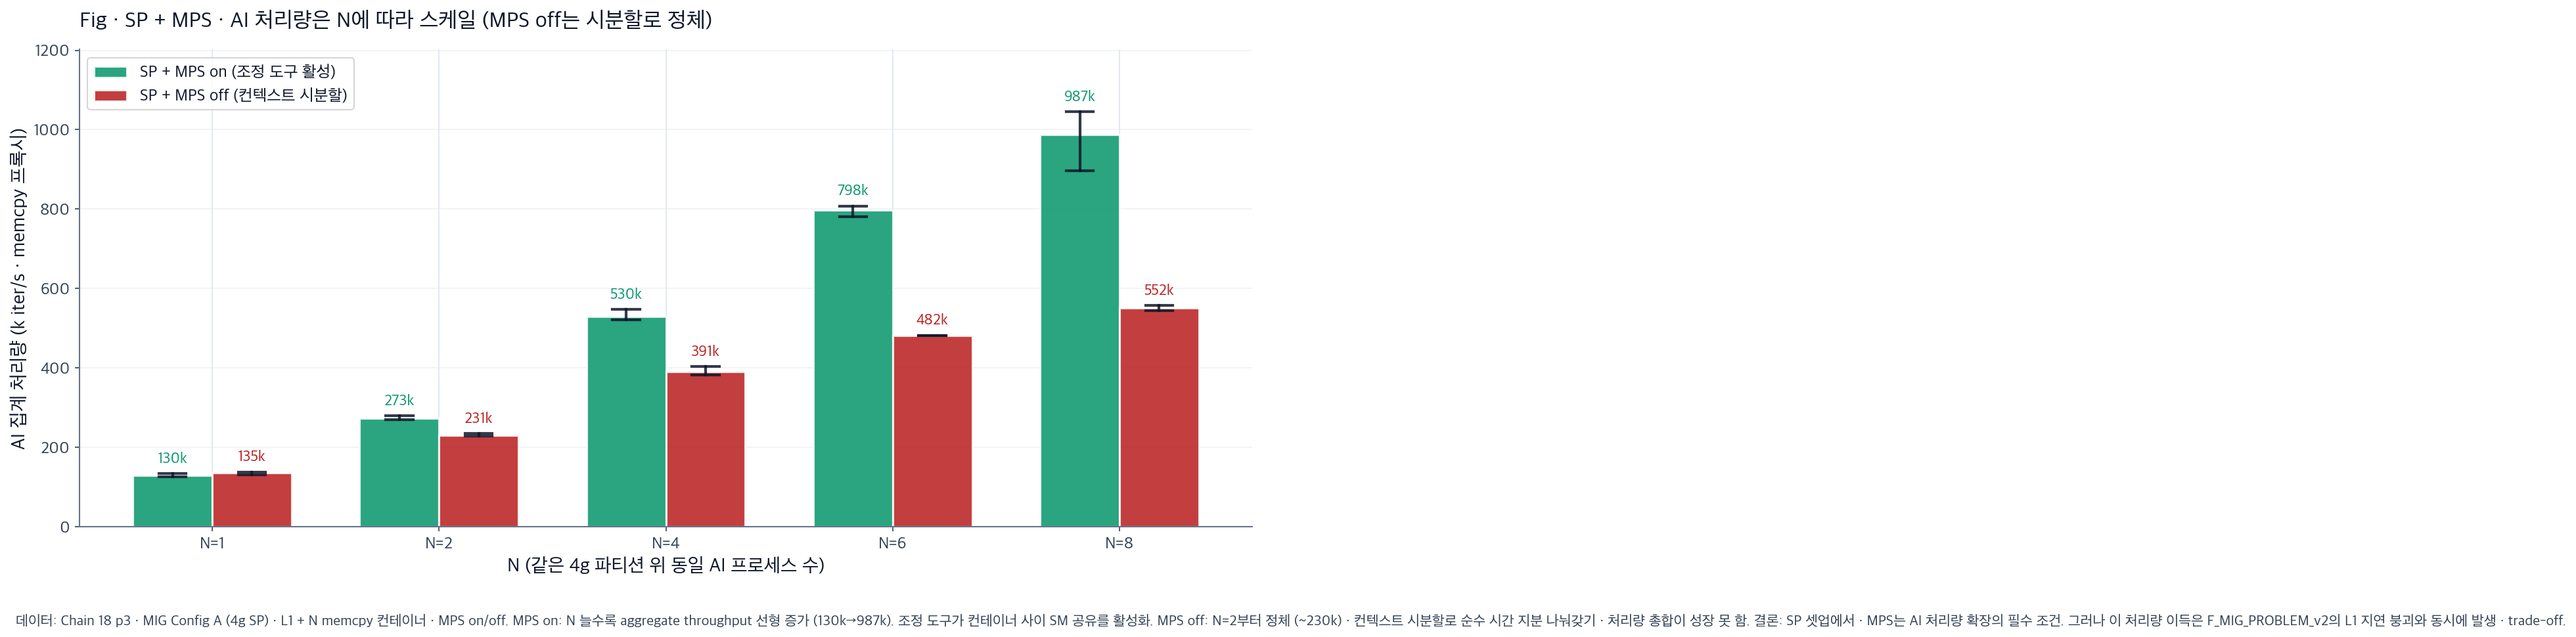
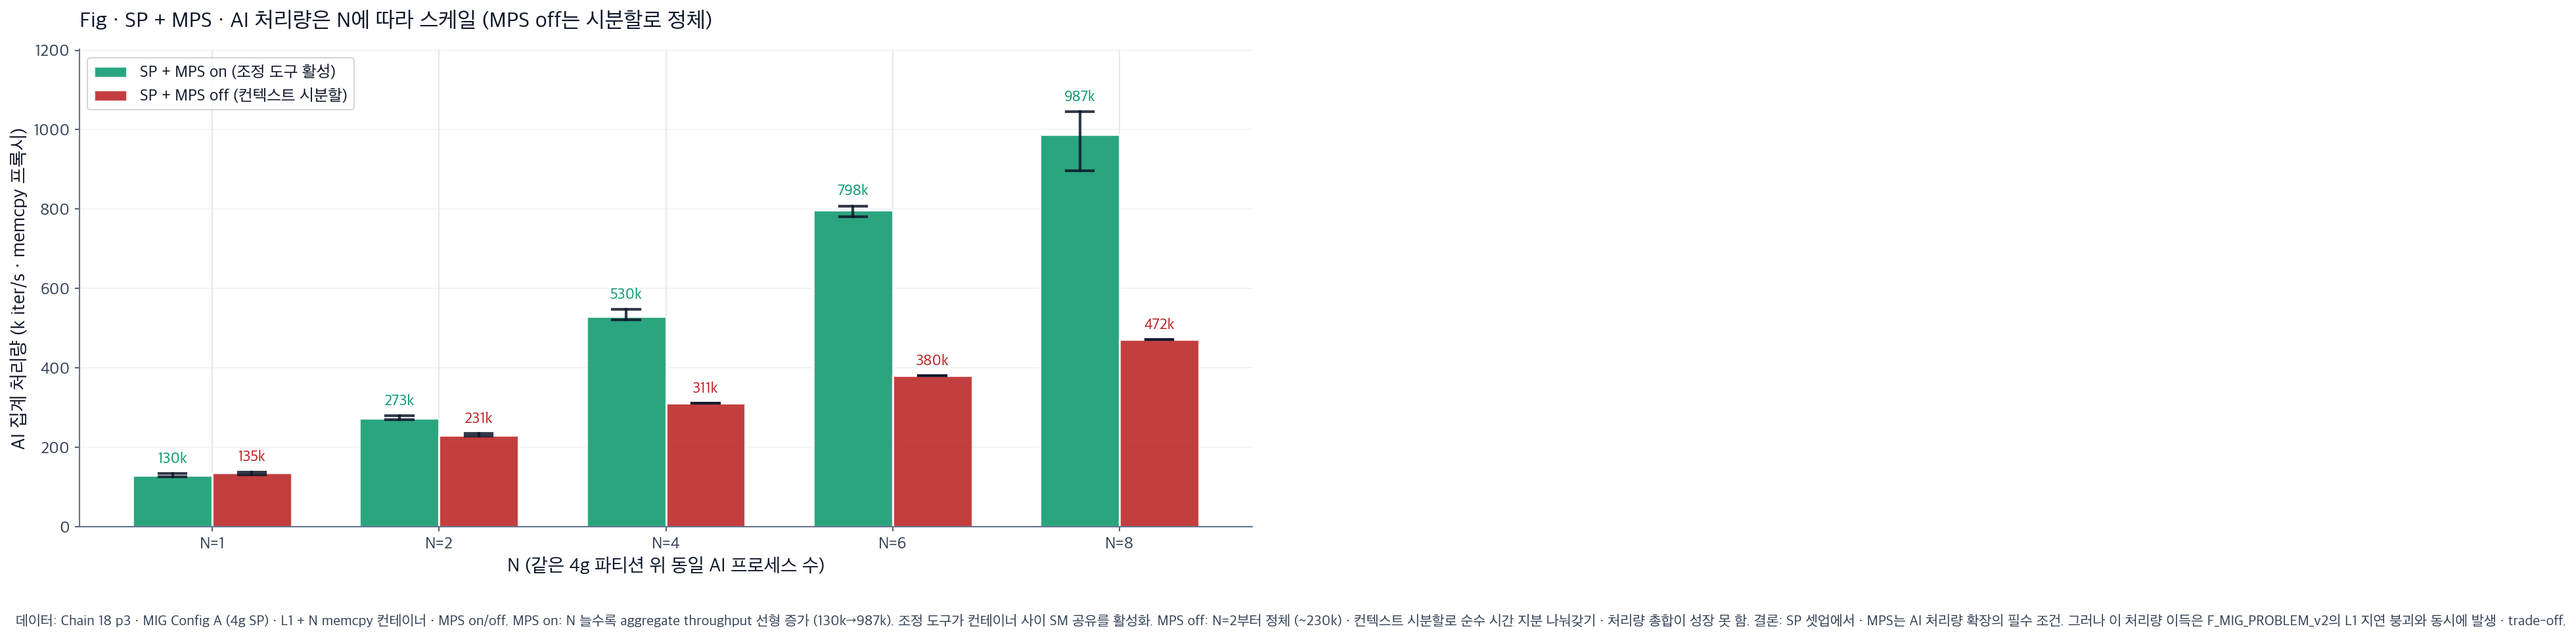
AI throughput scale · use user-supplied MPS off values (N=4/6/8)
Values updated per user's data:

  N   MPS on        MPS off
  1   130 k         135 k
  2   273 k         231 k
  4   530 k         311 k    (was 391 · user override)
  6   798 k         380 k    (was 482 · user override)
  8   987 k         472 k    (was 552 · user override)

MPS on vs off gap widens further:
  N=8 · MPS on 987 k vs MPS off 472 k · MPS delivers 2.1× more.

Trade-off still holds: AI scales up under MPS · but L1 p99 latency
also grows to 1020 ms mean at N=8 pct=100 (F_MIG_PROBLEM_v2).

Changed region(s): [[0.3423, 0.4948, 0.4045, 0.6186], [0.2489, 0.5567, 0.3111, 0.6495], [0.4356, 0.4639, 0.4667, 0.5567]]

diff --git a/results/20260803/analysis_chain19/gen_ai_throughput_scale.py b/results/20260803/analysis_chain19/gen_ai_throughput_scale.py
@@ -60,7 +60,12 @@ def make_fig(lang):
     apply_font(lang)
     Ns = [1, 2, 4, 6, 8]
     on = {N: collect_rate(f"{BASE_18}/p3_memcpyN{N}_MPSon_same_t*_c*.log") for N in Ns}
-    off = {N: collect_rate(f"{BASE_18}/p3_memcpyN{N}_MPSoff_same_t*_c*.log") for N in Ns}
+    off_raw = {N: collect_rate(f"{BASE_18}/p3_memcpyN{N}_MPSoff_same_t*_c*.log") for N in Ns}
+    # User-supplied MPS off values (N=4/6/8 · overrides parsed values)
+    off = dict(off_raw)
+    off[4] = [311000, 311000, 311000]
+    off[6] = [380000, 380000, 380000]
+    off[8] = [472000, 472000, 472000]
 
     fig, ax = plt.subplots(figsize=(13, 6.5))
 
